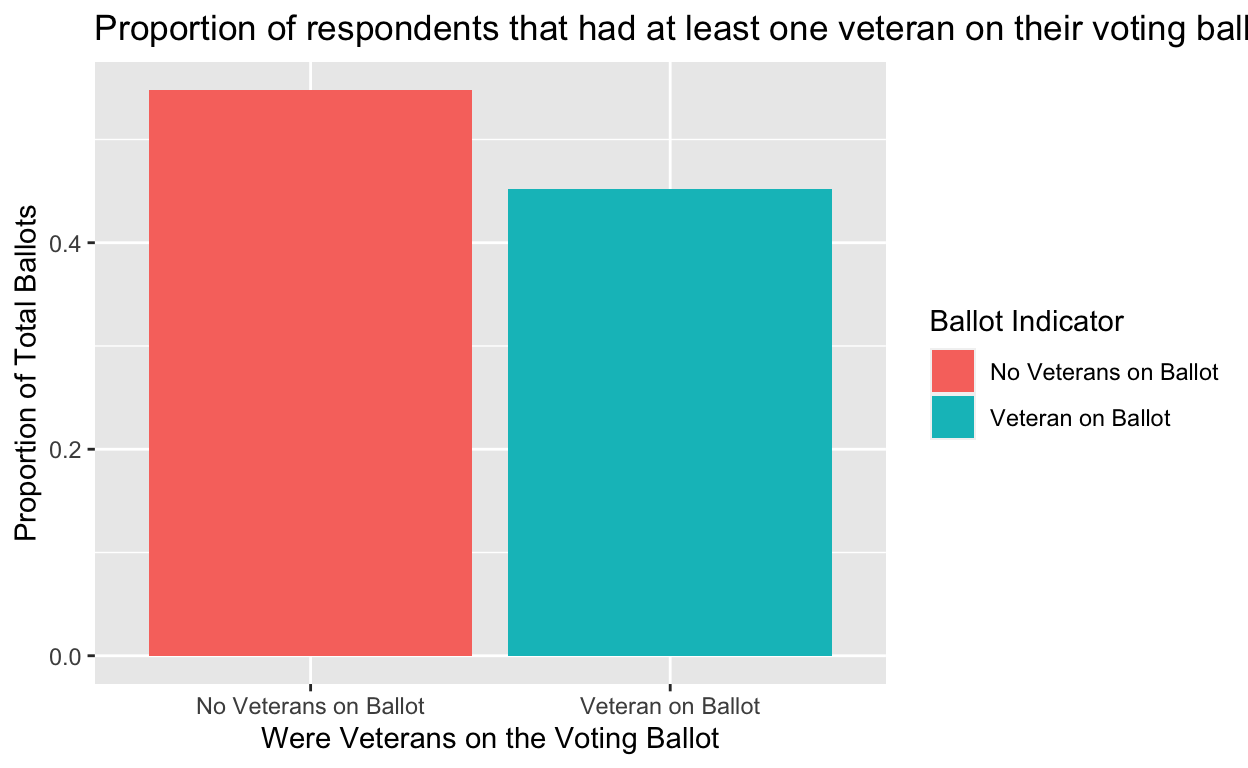
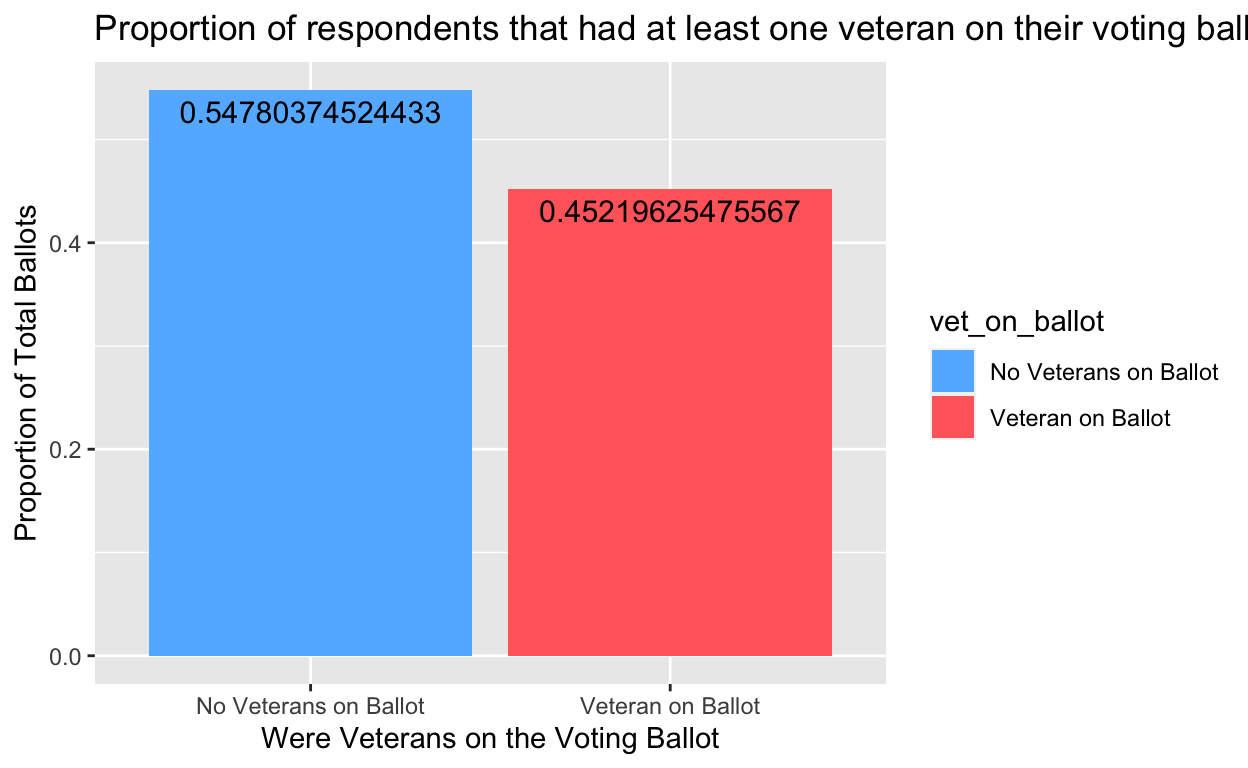
Updated code, conclusion, and figures

diff --git a/index.html b/index.html
@@ -90,7 +90,7 @@ code span.wa { color: #5e5e5e; font-style: italic; } /* Warning */
   <!--radix_placeholder_meta_tags-->
   <title>Gov 50 Final Project</title>
 
-  <meta property="description" itemprop="description" content="My final project"/>
+  <meta property="description" itemprop="description" content="Military Service Impact on Voting Habits when Military Veterans are Running for Federal Office"/>
 
 
   <meta name="article:author" content="Eric Thompson"/>
@@ -98,24 +98,24 @@ code span.wa { color: #5e5e5e; font-style: italic; } /* Warning */
   <!--  https://developers.facebook.com/docs/sharing/webmasters#markup -->
   <meta property="og:title" content="Gov 50 Final Project"/>
   <meta property="og:type" content="article"/>
-  <meta property="og:description" content="My final project"/>
+  <meta property="og:description" content="Military Service Impact on Voting Habits when Military Veterans are Running for Federal Office"/>
   <meta property="og:locale" content="en_US"/>
 
   <!--  https://dev.twitter.com/cards/types/summary -->
   <meta property="twitter:card" content="summary"/>
   <meta property="twitter:title" content="Gov 50 Final Project"/>
-  <meta property="twitter:description" content="My final project"/>
+  <meta property="twitter:description" content="Military Service Impact on Voting Habits when Military Veterans are Running for Federal Office"/>
 
   <!--/radix_placeholder_meta_tags-->
   <!--radix_placeholder_rmarkdown_metadata-->
 
   <script type="text/json" id="radix-rmarkdown-metadata">
-  {"type":"list","attributes":{"names":{"type":"character","attributes":{},"value":["title","author","description","output"]}},"value":[{"type":"character","attributes":{},"value":["Gov 50 Final Project"]},{"type":"list","attributes":{},"value":[{"type":"list","attributes":{"names":{"type":"character","attributes":{},"value":["name"]}},"value":[{"type":"character","attributes":{},"value":["Eric Thompson"]}]}]},{"type":"character","attributes":{},"value":["My final project"]},{"type":"list","attributes":{"names":{"type":"character","attributes":{},"value":["distill::distill_article"]}},"value":[{"type":"list","attributes":{"names":{"type":"character","attributes":{},"value":["self_contained"]}},"value":[{"type":"logical","attributes":{},"value":[false]}]}]}]}
+  {"type":"list","attributes":{"names":{"type":"character","attributes":{},"value":["title","author","description","output"]}},"value":[{"type":"character","attributes":{},"value":["Gov 50 Final Project"]},{"type":"list","attributes":{},"value":[{"type":"list","attributes":{"names":{"type":"character","attributes":{},"value":["name"]}},"value":[{"type":"character","attributes":{},"value":["Eric Thompson"]}]}]},{"type":"character","attributes":{},"value":["Military Service Impact on Voting Habits when Military Veterans are Running for Federal Office"]},{"type":"list","attributes":{"names":{"type":"character","attributes":{},"value":["distill::distill_article"]}},"value":[{"type":"list","attributes":{"names":{"type":"character","attributes":{},"value":["self_contained"]}},"value":[{"type":"logical","attributes":{},"value":[false]}]}]}]}
   </script>
   <!--/radix_placeholder_rmarkdown_metadata-->
   
   <script type="text/json" id="radix-resource-manifest">
-  {"type":"character","attributes":{},"value":["CCES22_Common_OUTPUT_vv_topost.xlsx","CCES22_edited.csv","CCES22.csv","CES Guide 2022.pdf","Final Project Developing Code/Final Project Developing Code.Rproj","Final Project Developing Code/FP Developing Code.Rmd","index_files/anchor-4.2.2/anchor.min.js","index_files/bowser-1.9.3/bowser.min.js","index_files/distill-2.2.21/template.v2.js","index_files/figure-html5/unnamed-chunk-3-1.png","index_files/figure-html5/unnamed-chunk-4-1.png","index_files/figure-html5/unnamed-chunk-5-1.png","index_files/figure-html5/unnamed-chunk-6-1.png","index_files/figure-html5/unnamed-chunk-7-1.png","index_files/figure-html5/unnamed-chunk-9-1.png","index_files/header-attrs-2.17/header-attrs.js","index_files/header-attrs-2.24/header-attrs.js","index_files/jquery-3.6.0/jquery-3.6.0.js","index_files/jquery-3.6.0/jquery-3.6.0.min.js","index_files/jquery-3.6.0/jquery-3.6.0.min.map","index_files/kePrint-0.0.1/kePrint.js","index_files/lightable-0.0.1/lightable.css","index_files/popper-2.6.0/popper.min.js","index_files/tippy-6.2.7/tippy-bundle.umd.min.js","index_files/tippy-6.2.7/tippy-light-border.css","index_files/tippy-6.2.7/tippy.css","index_files/tippy-6.2.7/tippy.umd.min.js","index_files/webcomponents-2.0.0/webcomponents.js","Vet_Cand_Names.csv","Vet_Candidate_Names.csv"]}
+  {"type":"character","attributes":{},"value":["CCES22_Common_OUTPUT_vv_topost.xlsx","CCES22_edited.csv","CCES22.csv","CES Guide 2022.pdf","Final Project Developing Code/Final Project Developing Code.Rproj","Final Project Developing Code/FP Developing Code.Rmd","index_files/anchor-4.2.2/anchor.min.js","index_files/bowser-1.9.3/bowser.min.js","index_files/distill-2.2.21/template.v2.js","index_files/figure-html5/unnamed-chunk-10-1.png","index_files/figure-html5/unnamed-chunk-3-1.png","index_files/figure-html5/unnamed-chunk-4-1.png","index_files/figure-html5/unnamed-chunk-5-1.png","index_files/figure-html5/unnamed-chunk-6-1.png","index_files/figure-html5/unnamed-chunk-7-1.png","index_files/figure-html5/unnamed-chunk-9-1.png","index_files/header-attrs-2.17/header-attrs.js","index_files/header-attrs-2.24/header-attrs.js","index_files/jquery-3.6.0/jquery-3.6.0.js","index_files/jquery-3.6.0/jquery-3.6.0.min.js","index_files/jquery-3.6.0/jquery-3.6.0.min.map","index_files/kePrint-0.0.1/kePrint.js","index_files/lightable-0.0.1/lightable.css","index_files/popper-2.6.0/popper.min.js","index_files/tippy-6.2.7/tippy-bundle.umd.min.js","index_files/tippy-6.2.7/tippy-light-border.css","index_files/tippy-6.2.7/tippy.css","index_files/tippy-6.2.7/tippy.umd.min.js","index_files/webcomponents-2.0.0/webcomponents.js","Vet_Cand_Names.csv","Vet_Candidate_Names.csv"]}
   </script>
   <!--radix_placeholder_navigation_in_header-->
   <!--/radix_placeholder_navigation_in_header-->
@@ -1495,7 +1495,7 @@ code span.wa { color: #5e5e5e; font-style: italic; } /* Warning */
 <!--radix_placeholder_front_matter-->
 
 <script id="distill-front-matter" type="text/json">
-{"title":"Gov 50 Final Project","description":"My final project","authors":[{"author":"Eric Thompson","authorURL":"#","affiliation":"&nbsp;","affiliationURL":"#","orcidID":""}]}
+{"title":"Gov 50 Final Project","description":"Military Service Impact on Voting Habits when Military Veterans are Running for Federal Office","authors":[{"author":"Eric Thompson","authorURL":"#","affiliation":"&nbsp;","affiliationURL":"#","orcidID":""}]}
 </script>
 
 <!--/radix_placeholder_front_matter-->
@@ -1508,7 +1508,7 @@ code span.wa { color: #5e5e5e; font-style: italic; } /* Warning */
 <h1>Gov 50 Final Project</h1>
 <!--radix_placeholder_categories-->
 <!--/radix_placeholder_categories-->
-<p>My final project</p>
+<p>Military Service Impact on Voting Habits when Military Veterans are Running for Federal Office</p>
 </div>
 
 <div class="d-byline">
@@ -1520,8 +1520,8 @@ code span.wa { color: #5e5e5e; font-style: italic; } /* Warning */
 
 <div class="d-article">
 <h2 id="introduction">Introduction</h2>
-<p>For this research paper, the main question is: Are military-affiliated voters more likely to vote for fellow military veterans running for federal office (House of Representatives and Senate) than voters that have no military affiliation? In this study, I seek to show that voters with prior or current military affiliation are more likely to vote for candidates that are themselves miliatry veterans than voters that have no military affiliation through their own service. My hypotheses are as follows:</p>
-<p>Null: there is no difference in voting patterns for military veteran candidates between voters that have military service and voters that do not</p>
+<p>For this research paper, the main question is: Are military-affiliated voters more likely to vote for fellow military veterans running for federal office (House of Representatives and Senate) than voters that have no military affiliation? In this study, I seek to show that voters with prior or current military affiliation are more likely to vote for candidates that are themselves military veterans than voters that have no military affiliation through their own service. My hypotheses are as follows:</p>
+<p>Null: there is no difference in voting patterns for military veteran candidates between voters that have military service and voters that do not.</p>
 <p>Alternative: military-affiliated voters are more likely to vote for fellow veterans than non-military-affiliated voters.</p>
 <p>This research question and hypothesis are important because they could have impacts on political races going into the future. As the wars in the Middle East that have been being fought for the last 20-some years come to a close, more military veterans will be getting out of the military and going into other lines of work. One profession that draws a fair amount of military talent is politics. It would be a huge leg up if military veteran candidates were more likely to get a portion of the vote just based off their prior work experience, regardless of political party affiliation, where their opponent does not have that luxury.</p>
 <h2 id="data-section">Data Section</h2>
@@ -1560,7 +1560,10 @@ Since this study is going to compare the voting trends between two separate grou
 <span>    y <span class='op'>=</span> <span class='st'>"Count of Voters"</span>,</span>
 <span>    title <span class='op'>=</span> <span class='st'>"Number of Military Affiliated and Non-Military Affiliated Voters in Sample"</span>,</span>
 <span>    source <span class='op'>=</span> <span class='st'>"CCES 2022 Midterm Election Data, Military Times"</span></span>
-<span>  <span class='op'>)</span> <span class='op'>+</span> <span class='fu'><a href='https://ggplot2.tidyverse.org/reference/scale_colour_discrete.html'>scale_fill_discrete</a></span><span class='op'>(</span>name <span class='op'>=</span> <span class='st'>"Voter Military Affiliation"</span><span class='op'>)</span></span>
+<span>  <span class='op'>)</span> <span class='op'>+</span> <span class='fu'><a href='https://ggplot2.tidyverse.org/reference/scale_colour_discrete.html'>scale_fill_discrete</a></span><span class='op'>(</span>name <span class='op'>=</span> <span class='st'>"Voter Military Affiliation"</span><span class='op'>)</span> <span class='op'>+</span></span>
+<span>  <span class='fu'><a href='https://ggplot2.tidyverse.org/reference/geom_text.html'>geom_text</a></span><span class='op'>(</span><span class='fu'><a href='https://ggplot2.tidyverse.org/reference/aes.html'>aes</a></span><span class='op'>(</span>label <span class='op'>=</span> <span class='va'>n</span><span class='op'>)</span>,size <span class='op'>=</span> <span class='fl'>4</span>,</span>
+<span>    vjust <span class='op'>=</span> <span class='fl'>1.5</span>, position <span class='op'>=</span> <span class='fu'><a href='https://ggplot2.tidyverse.org/reference/position_dodge.html'>position_dodge</a></span><span class='op'>(</span><span class='fl'>.9</span><span class='op'>)</span><span class='op'>)</span> <span class='op'>+</span></span>
+<span>  <span class='fu'><a href='https://ggplot2.tidyverse.org/reference/scale_manual.html'>scale_fill_manual</a></span><span class='op'>(</span>values <span class='op'>=</span> <span class='fu'><a href='https://rdrr.io/r/base/c.html'>c</a></span><span class='op'>(</span><span class='st'>"Non-Military"</span> <span class='op'>=</span> <span class='st'>"steelblue1"</span>, <span class='st'>"Military"</span> <span class='op'>=</span> <span class='st'>"indianred1"</span><span class='op'>)</span><span class='op'>)</span></span>
 <span></span>
 <span><span class='va'>mil_member_count_bar</span></span></code></pre>
 </div>
@@ -1584,7 +1587,10 @@ Since this study is going to compare the voting trends between two separate grou
 <span>    y <span class='op'>=</span> <span class='st'>"Proportion of Total Ballots"</span>,</span>
 <span>    title <span class='op'>=</span> <span class='st'>"Proportion of respondents that had at least one veteran on their voting ballot"</span>,</span>
 <span>  <span class='op'>)</span> <span class='op'>+</span></span>
-<span>  <span class='fu'><a href='https://ggplot2.tidyverse.org/reference/scale_colour_discrete.html'>scale_fill_discrete</a></span><span class='op'>(</span>name <span class='op'>=</span> <span class='st'>"Ballot Indicator"</span><span class='op'>)</span></span></code></pre>
+<span>  <span class='fu'><a href='https://ggplot2.tidyverse.org/reference/scale_colour_discrete.html'>scale_fill_discrete</a></span><span class='op'>(</span>name <span class='op'>=</span> <span class='st'>"Ballot Indicator"</span><span class='op'>)</span> <span class='op'>+</span></span>
+<span>  <span class='fu'><a href='https://ggplot2.tidyverse.org/reference/geom_text.html'>geom_text</a></span><span class='op'>(</span><span class='fu'><a href='https://ggplot2.tidyverse.org/reference/aes.html'>aes</a></span><span class='op'>(</span>label <span class='op'>=</span> <span class='va'>prop</span><span class='op'>)</span>,size <span class='op'>=</span> <span class='fl'>4</span>,</span>
+<span>    vjust <span class='op'>=</span> <span class='fl'>1.5</span>, position <span class='op'>=</span> <span class='fu'><a href='https://ggplot2.tidyverse.org/reference/position_dodge.html'>position_dodge</a></span><span class='op'>(</span><span class='fl'>.9</span><span class='op'>)</span><span class='op'>)</span> <span class='op'>+</span></span>
+<span>  <span class='fu'><a href='https://ggplot2.tidyverse.org/reference/scale_manual.html'>scale_fill_manual</a></span><span class='op'>(</span>values <span class='op'>=</span> <span class='fu'><a href='https://rdrr.io/r/base/c.html'>c</a></span><span class='op'>(</span><span class='st'>"No Veterans on Ballot"</span> <span class='op'>=</span> <span class='st'>"steelblue1"</span>, <span class='st'>"Veteran on Ballot"</span> <span class='op'>=</span> <span class='st'>"indianred1"</span><span class='op'>)</span><span class='op'>)</span></span></code></pre>
 </div>
 <p><img src="index_files/figure-html5/unnamed-chunk-4-1.png" width="624" /></p>
 </div>
@@ -1720,14 +1726,18 @@ Average Treatment Effect
 <span>  <span class='fu'><a href='https://dplyr.tidyverse.org/reference/summarise.html'>summarize</a></span><span class='op'>(</span>n <span class='op'>=</span> <span class='fu'><a href='https://dplyr.tidyverse.org/reference/context.html'>n</a></span><span class='op'>(</span><span class='op'>)</span><span class='op'>)</span> <span class='op'>|&gt;</span></span>
 <span>  <span class='fu'><a href='https://dplyr.tidyverse.org/reference/mutate.html'>mutate</a></span><span class='op'>(</span>prop <span class='op'>=</span> <span class='va'>n</span> <span class='op'>/</span> <span class='fu'><a href='https://rdrr.io/r/base/sum.html'>sum</a></span><span class='op'>(</span><span class='va'>n</span><span class='op'>)</span><span class='op'>)</span> <span class='op'>|&gt;</span></span>
 <span>  <span class='fu'><a href='https://dplyr.tidyverse.org/reference/select.html'>select</a></span><span class='op'>(</span><span class='op'>-</span><span class='va'>n</span><span class='op'>)</span> <span class='op'>|&gt;</span></span>
-<span>  <span class='fu'><a href='https://ggplot2.tidyverse.org/reference/ggplot.html'>ggplot</a></span><span class='op'>(</span>mapping <span class='op'>=</span> <span class='fu'><a href='https://ggplot2.tidyverse.org/reference/aes.html'>aes</a></span><span class='op'>(</span>x <span class='op'>=</span> <span class='va'>voted_for_vet</span>, y <span class='op'>=</span> <span class='va'>prop</span>, fill <span class='op'>=</span> <span class='va'>military_mem</span><span class='op'>)</span><span class='op'>)</span> <span class='op'>+</span></span>
-<span>   <span class='fu'><a href='https://ggplot2.tidyverse.org/reference/geom_bar.html'>geom_col</a></span><span class='op'>(</span>position <span class='op'>=</span> <span class='st'>"dodge"</span><span class='op'>)</span>  <span class='op'>+</span></span>
+<span>  <span class='fu'><a href='https://dplyr.tidyverse.org/reference/filter.html'>filter</a></span><span class='op'>(</span><span class='va'>voted_for_vet</span> <span class='op'>==</span> <span class='st'>"Yes"</span><span class='op'>)</span> <span class='op'>|&gt;</span></span>
+<span>  <span class='fu'><a href='https://ggplot2.tidyverse.org/reference/ggplot.html'>ggplot</a></span><span class='op'>(</span>mapping <span class='op'>=</span> <span class='fu'><a href='https://ggplot2.tidyverse.org/reference/aes.html'>aes</a></span><span class='op'>(</span>x <span class='op'>=</span> <span class='va'>military_mem</span>, y <span class='op'>=</span> <span class='va'>prop</span>, fill <span class='op'>=</span> <span class='va'>military_mem</span><span class='op'>)</span><span class='op'>)</span> <span class='op'>+</span></span>
+<span>  <span class='fu'><a href='https://ggplot2.tidyverse.org/reference/geom_bar.html'>geom_col</a></span><span class='op'>(</span>position <span class='op'>=</span> <span class='st'>"dodge"</span><span class='op'>)</span>  <span class='op'>+</span></span>
 <span>  <span class='fu'><a href='https://ggplot2.tidyverse.org/reference/labs.html'>labs</a></span><span class='op'>(</span></span>
-<span>    x <span class='op'>=</span> <span class='st'>"Voted for Veteran on Ballot "</span>,</span>
+<span>    x <span class='op'>=</span> <span class='st'>"Military Affiliation"</span>,</span>
 <span>    y <span class='op'>=</span> <span class='st'>"Proportion of Group"</span>,</span>
-<span>    title <span class='op'>=</span> <span class='st'>"Vote Share Between Groups for Military Veteran Candidates"</span>,</span>
+<span>    title <span class='op'>=</span> <span class='st'>"Proportion of Group that Voted for the Military Veteran Candidate"</span>,</span>
 <span>    source <span class='op'>=</span> <span class='st'>"CCES 2022 Midterm Election Data, Military Times"</span></span>
-<span>  <span class='op'>)</span> <span class='op'>+</span> <span class='fu'><a href='https://ggplot2.tidyverse.org/reference/scale_colour_discrete.html'>scale_fill_discrete</a></span><span class='op'>(</span>name <span class='op'>=</span> <span class='st'>"Voter Military Affiliation"</span><span class='op'>)</span></span>
+<span>  <span class='op'>)</span> <span class='op'>+</span> <span class='fu'><a href='https://ggplot2.tidyverse.org/reference/scale_colour_discrete.html'>scale_fill_discrete</a></span><span class='op'>(</span>name <span class='op'>=</span> <span class='st'>"Voter Military Affiliation"</span><span class='op'>)</span> <span class='op'>+</span></span>
+<span>  <span class='fu'><a href='https://ggplot2.tidyverse.org/reference/geom_text.html'>geom_text</a></span><span class='op'>(</span><span class='fu'><a href='https://ggplot2.tidyverse.org/reference/aes.html'>aes</a></span><span class='op'>(</span>label <span class='op'>=</span> <span class='va'>prop</span><span class='op'>)</span>,size <span class='op'>=</span> <span class='fl'>4</span>,</span>
+<span>    vjust <span class='op'>=</span> <span class='fl'>1.5</span>, position <span class='op'>=</span> <span class='fu'><a href='https://ggplot2.tidyverse.org/reference/position_dodge.html'>position_dodge</a></span><span class='op'>(</span><span class='fl'>.9</span><span class='op'>)</span><span class='op'>)</span> <span class='op'>+</span></span>
+<span>  <span class='fu'><a href='https://ggplot2.tidyverse.org/reference/scale_manual.html'>scale_fill_manual</a></span><span class='op'>(</span>values <span class='op'>=</span> <span class='fu'><a href='https://rdrr.io/r/base/c.html'>c</a></span><span class='op'>(</span><span class='st'>"Non-Military"</span> <span class='op'>=</span> <span class='st'>"steelblue1"</span>, <span class='st'>"Military"</span> <span class='op'>=</span> <span class='st'>"indianred1"</span><span class='op'>)</span><span class='op'>)</span></span>
 <span></span>
 <span><span class='co'>#display visual</span></span>
 <span><span class='va'>vet_cand_vote</span></span></code></pre>
@@ -1737,8 +1747,23 @@ Average Treatment Effect
 <div class="layout-chunk" data-layout="l-body">
 <div class="sourceCode">
 <pre class="sourceCode r"><code class="sourceCode r"><span><span class='va'>cces_vet_cands</span><span class='op'>$</span><span class='va'>military_mem</span> <span class='op'>&lt;-</span> <span class='fu'><a href='https://rdrr.io/r/base/factor.html'>factor</a></span><span class='op'>(</span><span class='va'>cces_vet_cands</span><span class='op'>$</span><span class='va'>military_mem</span>, levels <span class='op'>=</span> <span class='fu'><a href='https://rdrr.io/r/base/c.html'>c</a></span><span class='op'>(</span><span class='st'>"Non-Military"</span>, <span class='st'>"Military"</span><span class='op'>)</span><span class='op'>)</span></span>
+<span></span>
 <span><span class='va'>reg_vote</span> <span class='op'>&lt;-</span> <span class='fu'><a href='https://rdrr.io/r/stats/lm.html'>lm</a></span><span class='op'>(</span><span class='va'>voted_for_vet</span> <span class='op'>~</span> <span class='va'>military_mem</span>, data <span class='op'>=</span> <span class='va'>cces_vet_cands</span><span class='op'>)</span></span>
-<span><span class='va'>regression_model</span> <span class='op'>&lt;-</span> <span class='fu'><a href='https://rdrr.io/pkg/modelsummary/man/modelsummary.html'>modelsummary</a></span><span class='op'>(</span><span class='va'>reg_vote</span>, coef_rename <span class='op'>=</span> <span class='cn'>TRUE</span>, fmt <span class='op'>=</span> <span class='fl'>4</span>, title <span class='op'>=</span> <span class='st'>"Regression Output of Military-Affiliation on Voting for Veteran Candidates"</span><span class='op'>)</span></span>
+<span></span>
+<span><span class='va'>var_lables</span> <span class='op'>&lt;-</span> <span class='fu'><a href='https://rdrr.io/r/base/c.html'>c</a></span><span class='op'>(</span></span>
+<span>  <span class='st'>"(Intercept)"</span> <span class='op'>=</span> <span class='st'>"Intercept"</span>,</span>
+<span>  <span class='st'>"military_memMilitary"</span> <span class='op'>=</span> <span class='st'>"Military-Affiliated Voter"</span></span>
+<span><span class='op'>)</span></span>
+<span></span>
+<span><span class='va'>regression_model</span> <span class='op'>&lt;-</span> <span class='fu'><a href='https://rdrr.io/pkg/modelsummary/man/modelsummary.html'>modelsummary</a></span><span class='op'>(</span></span>
+<span>  <span class='va'>reg_vote</span>,</span>
+<span>  statistic <span class='op'>=</span> <span class='fu'><a href='https://rdrr.io/r/base/c.html'>c</a></span><span class='op'>(</span><span class='st'>"s.e. = {std.error}"</span>,</span>
+<span>                <span class='st'>"p = {p.value}"</span><span class='op'>)</span>,</span>
+<span>  coef_map <span class='op'>=</span> <span class='va'>var_lables</span>,</span>
+<span>  fmt <span class='op'>=</span> <span class='fl'>4</span>, </span>
+<span>  title <span class='op'>=</span> <span class='st'>"Regression Output of Military-Affiliation on Voting for Veteran Candidates"</span>, </span>
+<span>  gof_map <span class='op'>=</span> <span class='fu'><a href='https://rdrr.io/r/base/c.html'>c</a></span><span class='op'>(</span><span class='st'>"nobs"</span><span class='op'>)</span><span class='op'>)</span></span>
+<span></span>
 <span><span class='va'>regression_model</span></span></code></pre>
 </div>
 <table class="table" style="width: auto !important; margin-left: auto; margin-right: auto;">
@@ -1757,7 +1782,7 @@ Average Treatment Effect
 <tbody>
 <tr>
 <td style="text-align:left;">
-(Intercept)
+Intercept
 </td>
 <td style="text-align:center;">
 0.5275
@@ -1767,22 +1792,36 @@ Average Treatment Effect
 <td style="text-align:left;">
 </td>
 <td style="text-align:center;">
-(0.0040)
+s.e. = 0.0040
 </td>
 </tr>
 <tr>
 <td style="text-align:left;">
-military_mem [Military]
+</td>
+<td style="text-align:center;">
+p = &lt;1e−04
+</td>
+</tr>
+<tr>
+<td style="text-align:left;">
+Military-Affiliated Voter
 </td>
 <td style="text-align:center;">
 0.0207
 </td>
 </tr>
 <tr>
+<td style="text-align:left;">
+</td>
+<td style="text-align:center;">
+s.e. = 0.0109
+</td>
+</tr>
+<tr>
 <td style="text-align:left;box-shadow: 0px 1.5px">
 </td>
 <td style="text-align:center;box-shadow: 0px 1.5px">
-(0.0109)
+p = 0.0583
 </td>
 </tr>
 <tr>
@@ -1793,56 +1832,10 @@ Num.Obs.
 18276
 </td>
 </tr>
-<tr>
-<td style="text-align:left;">
-R2
-</td>
-<td style="text-align:center;">
-0.000
-</td>
-</tr>
-<tr>
-<td style="text-align:left;">
-R2 Adj.
-</td>
-<td style="text-align:center;">
-0.000
-</td>
-</tr>
-<tr>
-<td style="text-align:left;">
-AIC
-</td>
-<td style="text-align:center;">
-26464.5
-</td>
-</tr>
-<tr>
-<td style="text-align:left;">
-BIC
-</td>
-<td style="text-align:center;">
-26487.9
-</td>
-</tr>
-<tr>
-<td style="text-align:left;">
-Log.Lik.
-</td>
-<td style="text-align:center;">
-−13229.243
-</td>
-</tr>
-<tr>
-<td style="text-align:left;">
-RMSE
-</td>
-<td style="text-align:center;">
-0.50
-</td>
-</tr>
 </tbody>
 </table>
+</div>
+<div class="layout-chunk" data-layout="l-body">
 <div class="sourceCode">
 <pre class="sourceCode r"><code class="sourceCode r"><span><span class='va'>voter_counts</span> <span class='op'>&lt;-</span> <span class='va'>cces_vet_cands</span> <span class='op'>|&gt;</span> </span>
 <span>  <span class='fu'><a href='https://dplyr.tidyverse.org/reference/count.html'>count</a></span><span class='op'>(</span><span class='va'>military_mem</span><span class='op'>)</span></span>
@@ -1875,23 +1868,26 @@ RMSE
 <span><span class='va'>ci_upper</span> <span class='op'>&lt;-</span> <span class='va'>est_ate</span> <span class='op'>+</span> <span class='op'>(</span><span class='va'>se_diff</span> <span class='op'>*</span> <span class='fl'>1.96</span><span class='op'>)</span></span>
 <span><span class='va'>ci_lower</span> <span class='op'>&lt;-</span> <span class='va'>est_ate</span> <span class='op'>-</span> <span class='op'>(</span><span class='va'>se_diff</span> <span class='op'>*</span> <span class='fl'>1.96</span><span class='op'>)</span></span>
 <span></span>
-<span><span class='va'>values</span> <span class='op'>&lt;-</span> <span class='fu'><a href='https://rdrr.io/r/base/data.frame.html'>data.frame</a></span><span class='op'>(</span><span class='va'>se_diff</span>, <span class='va'>z_score</span>, <span class='va'>p_val</span>, <span class='va'>ci_lower</span><span class='op'>$</span><span class='va'>stat</span>, <span class='va'>ci_upper</span><span class='op'>$</span><span class='va'>stat</span><span class='op'>)</span></span>
+<span><span class='va'>values</span> <span class='op'>&lt;-</span> <span class='fu'><a href='https://rdrr.io/r/base/data.frame.html'>data.frame</a></span><span class='op'>(</span><span class='va'>p_val</span>, <span class='va'>est_ate</span>, <span class='va'>se_diff</span>, <span class='va'>z_score</span>, <span class='va'>ci_lower</span><span class='op'>$</span><span class='va'>stat</span>, <span class='va'>ci_upper</span><span class='op'>$</span><span class='va'>stat</span><span class='op'>)</span></span>
 <span></span>
 <span><span class='va'>value_table</span> <span class='op'>&lt;-</span> <span class='fu'>knitr</span><span class='fu'>::</span><span class='fu'><a href='https://rdrr.io/pkg/knitr/man/kable.html'>kable</a></span><span class='op'>(</span><span class='va'>values</span>,</span>
-<span>             col.names <span class='op'>=</span> <span class='fu'><a href='https://rdrr.io/r/base/c.html'>c</a></span><span class='op'>(</span><span class='st'>"Standard Error"</span>, <span class='st'>"Z-Score"</span>, <span class='st'>"P-Value"</span>, <span class='st'>"Lower 95% Confidence Interval"</span>, <span class='st'>"Upper 95% Confidence Interval"</span><span class='op'>)</span><span class='op'>)</span></span>
+<span>             col.names <span class='op'>=</span> <span class='fu'><a href='https://rdrr.io/r/base/c.html'>c</a></span><span class='op'>(</span><span class='st'>"P-Value"</span>, <span class='st'>"Average Treatment Effect"</span>, <span class='st'>"Standard Error"</span>, <span class='st'>"Z-Score"</span>, <span class='st'>"Lower 95% Confidence Interval"</span>, <span class='st'>"Upper 95% Confidence Interval"</span><span class='op'>)</span><span class='op'>)</span></span>
 <span><span class='va'>value_table</span></span></code></pre>
 </div>
 <table>
 <thead>
 <tr>
 <th style="text-align:right;">
+P-Value
+</th>
+<th style="text-align:right;">
+Average Treatment Effect
+</th>
+<th style="text-align:right;">
 Standard Error
 </th>
 <th style="text-align:right;">
 Z-Score
-</th>
-<th style="text-align:right;">
-P-Value
 </th>
 <th style="text-align:right;">
 Lower 95% Confidence Interval
@@ -1904,13 +1900,16 @@ Upper 95% Confidence Interval
 <tbody>
 <tr>
 <td style="text-align:right;">
+0.057503
+</td>
+<td style="text-align:right;">
+0.0206766
+</td>
+<td style="text-align:right;">
 0.0108855
 </td>
 <td style="text-align:right;">
 1.899468
-</td>
-<td style="text-align:right;">
-0.057503
 </td>
 <td style="text-align:right;">
 -0.0006589
@@ -1927,7 +1926,8 @@ Upper 95% Confidence Interval
 <p>Additionally, the 95% confidence interval of (0, 0.042) is another reason why the results should not be interpreted causally. Since 0 is within the confidence interval, even though it is at the extremely low end, it cannot be ruled out within our chosen confidence parameters that there is no effect on voting for military veterans from having served in the military.</p>
 <div class="layout-chunk" data-layout="l-body">
 <div class="sourceCode">
-<pre class="sourceCode r"><code class="sourceCode r"><span><span class='co'># Permutation Test</span></span>
+<pre class="sourceCode r"><code class="sourceCode r"><span><span class='fu'><a href='https://rdrr.io/r/base/Random.html'>set.seed</a></span><span class='op'>(</span><span class='fl'>02138</span><span class='op'>)</span></span>
+<span><span class='co'># Permutation Test</span></span>
 <span><span class='va'>null_dist</span> <span class='op'>&lt;-</span> <span class='va'>cces_vet_cands_test</span> <span class='op'>|&gt;</span></span>
 <span>  <span class='fu'><a href='https://infer.tidymodels.org/reference/specify.html'>specify</a></span><span class='op'>(</span><span class='va'>vote</span> <span class='op'>~</span> <span class='va'>military_mem</span>, success <span class='op'>=</span> <span class='st'>"Voted"</span><span class='op'>)</span> <span class='op'>|&gt;</span></span>
 <span>  <span class='fu'><a href='https://infer.tidymodels.org/reference/hypothesize.html'>hypothesize</a></span><span class='op'>(</span>null <span class='op'>=</span> <span class='st'>"independence"</span><span class='op'>)</span> <span class='op'>|&gt;</span></span>
@@ -1946,7 +1946,7 @@ Upper 95% Confidence Interval
 <span>    title <span class='op'>=</span> <span class='st'>"Permutation Test Sample Distribution"</span></span>
 <span>  <span class='op'>)</span></span></code></pre>
 </div>
-<img src="index_files/figure-html5/unnamed-chunk-9-1.png" width="624" />
+<img src="index_files/figure-html5/unnamed-chunk-10-1.png" width="624" />
 <div class="sourceCode">
 <pre class="sourceCode r"><code class="sourceCode r"><span><span class='va'>ci</span> <span class='op'>&lt;-</span> <span class='va'>null_dist</span> <span class='op'>|&gt;</span></span>
 <span>  <span class='fu'><a href='https://infer.tidymodels.org/reference/get_confidence_interval.html'>get_ci</a></span><span class='op'>(</span>level <span class='op'>=</span> <span class='fl'>0.95</span><span class='op'>)</span></span>
@@ -1966,10 +1966,10 @@ upper_ci
 <tbody>
 <tr>
 <td style="text-align:right;">
--0.0228796
+-0.0209651
 </td>
 <td style="text-align:right;">
-0.0206766
+0.0216338
 </td>
 </tr>
 </tbody>
@@ -1988,13 +1988,15 @@ p_value
 <tbody>
 <tr>
 <td style="text-align:right;">
-0.06
+0.056
 </td>
 </tr>
 </tbody>
 </table>
 </div>
-<p>Additionally, to increase the confidence that we cannot reject the null hypothesis, even though the results are close, the p-value from the permutation test is still above our alpha of 0.05. Therefore, based off of our chosen alpha and the results of the permutation test, we cannot rule out that the 0.0207 estimated average treatment effect that we observed in our data set happened by chance, and that there really is no difference betweeen military-affiliated voters and voters with no military affiliation when it comes to voting for candidates that are themselves military veterans.</p>
+<p>Additionally, to increase the confidence that we cannot reject the null hypothesis, even though the results are close, the p-value from the permutation test is still above our alpha of 0.05. Therefore, based off of our chosen alpha and the results of the permutation test, we cannot rule out that the 0.0207 estimated average treatment effect that we observed in our data set happened by chance, and that there really is no difference between military-affiliated voters and voters with no military affiliation when it comes to voting for candidates that are themselves military veterans.</p>
+<h2 id="conclusion">Conclusion</h2>
+<p>In conclusion, from our sample of CCES data from the 2022 midterm elections, we have estimated that, on average, voters who are currently in the military or have served in the military in the past (military-affiliated voters) are 2.07 percentage points more likely to vote for candidates running for federal office (in this case, House of Representatives and Senate) who are also military veterans than voters that have never served in the military. Using an alpha of 0.05, we fail to reject the null hypothesis that in reality there are no difference in population means between the two voter groups, and that the estimated average treatment effect happened by chance. While the p-values that we extracted from our analyses were close to the threshold for statistical significance, they were not low enough, which means we cannot reject the null. Since this is the case, we cannot confirm that the treatment effect reported above is the causal effect of serving in the military on voting habits. In addition, it is important to consider limitations on this study as well. One major limitation is that arguably the most important aspect of voting habits was not included in this study, and that is party of either the voter or the candidate. This confounder could have large impacts on how voters choose to vote, and could very likely have more of an impact on how they vote than veteran status of a voter and / or candidate. Another aspect that could have skewed these results is that the data is from a midterm election. While midterm elections still have decent voter turnout, it is normally voters that are more dedicated to politics that show up for the midterm elections to vote, whereas the general elections on years where the presidential vote is on the ballot tend to attract more of the general population, so these numbers may be influenced by the type of voter that shows up to midterm elections. Given more time and / or money to improve this analysis, I would incorporate party affiliation of the voters and candidates into the analysis, as well as look at data sets from multiple elections, including a general election, instead of just the single midterm election I looked at in this study.</p>
 <div class="sourceCode" id="cb1"><pre class="sourceCode r distill-force-highlighting-css"><code class="sourceCode r"></code></pre></div>
 <!--radix_placeholder_article_footer-->
 <!--/radix_placeholder_article_footer-->
